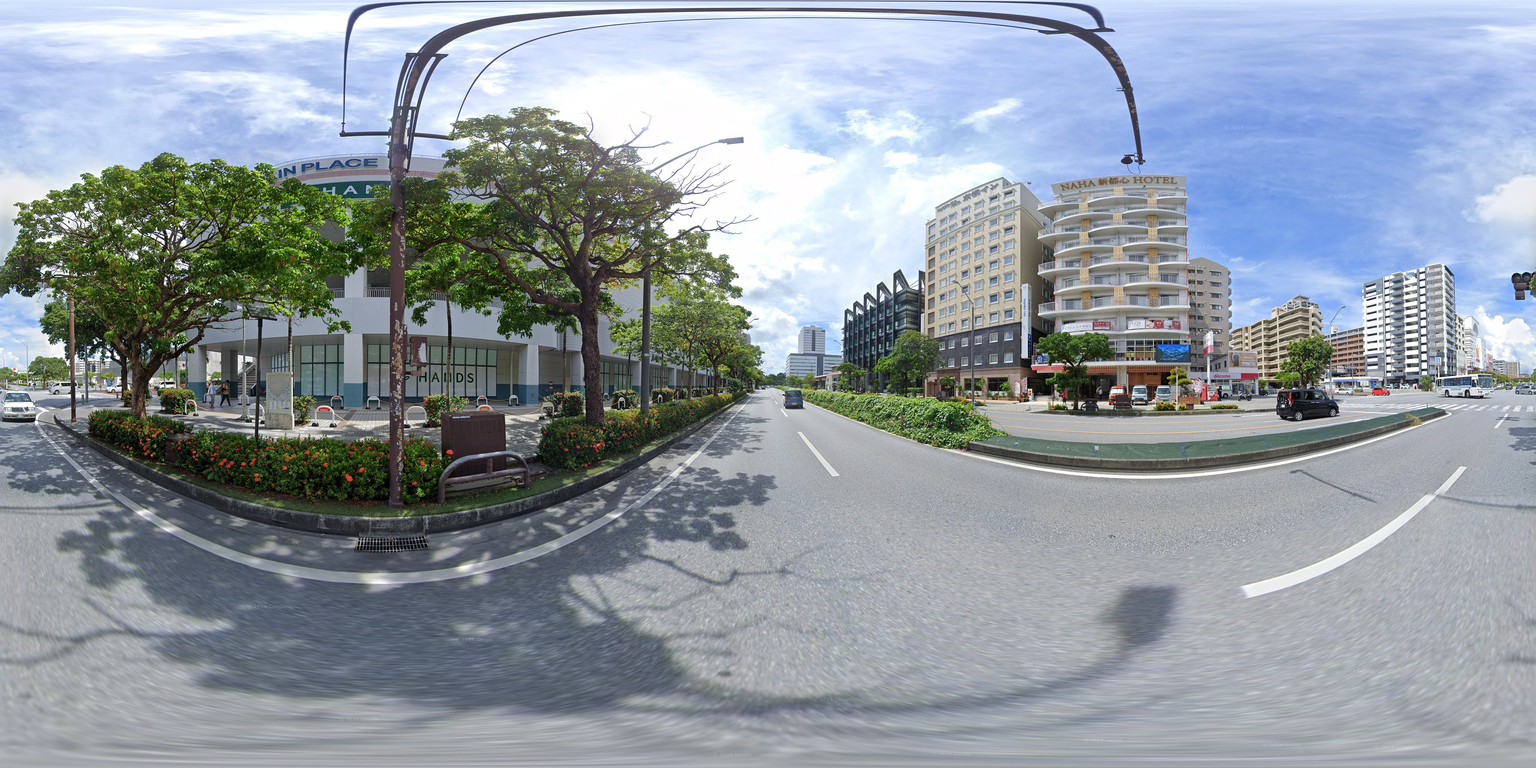
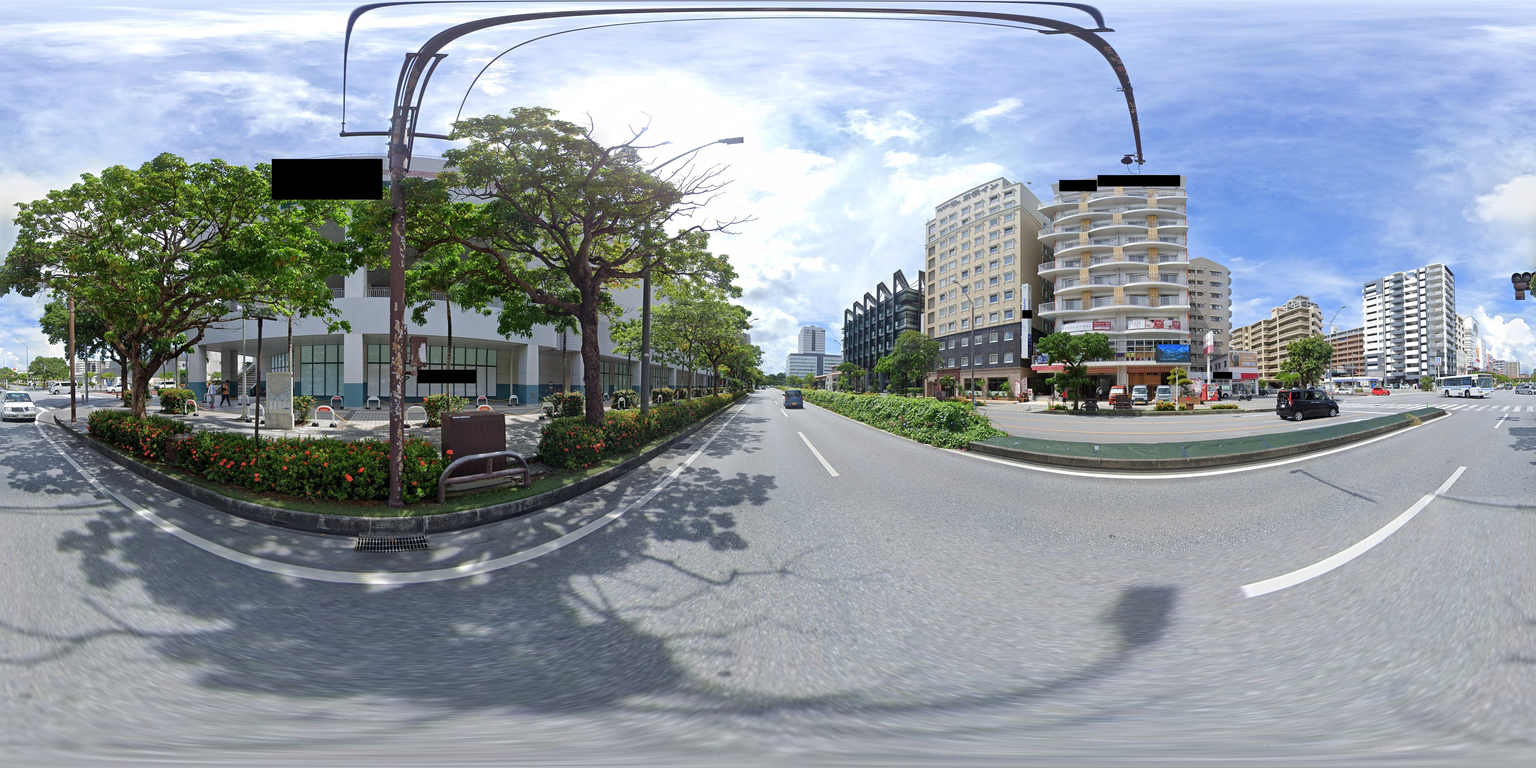
126 GEochallenge

diff --git a/update_panorama.py b/update_panorama.py
@@ -85,7 +85,10 @@ def get_pano_id(lat: float, lng: float) -> str:
 # ── Tile fetching & stitching ─────────────────────────────────────────────────
 
 def tile_url(pano_id: str, zoom: int, x: int, y: int) -> str:
-    return f"https://cbk0.google.com/cbk?output=tile&panoid={pano_id}&zoom={zoom}&x={x}&y={y}"
+    return (
+        f"https://streetviewpixels-pa.googleapis.com/v1/tile"
+        f"?cb_client=maps_sv.tactile&panoid={pano_id}&x={x}&y={y}&zoom={zoom}"
+    )
 
 
 def fetch_panorama(pano_id: str) -> Image.Image:
@@ -94,6 +97,12 @@ def fetch_panorama(pano_id: str) -> Image.Image:
     total = cols * rows
 
     session = requests.Session()
+    session.headers.update({
+        "User-Agent": "Mozilla/5.0 (Macintosh; Intel Mac OS X 10_15_7) AppleWebKit/537.36 (KHTML, like Gecko) Chrome/124.0.0.0 Safari/537.36",
+        "Referer": "https://www.google.com/",
+        "Accept": "image/avif,image/webp,image/apng,image/*,*/*;q=0.8",
+        "Accept-Language": "en-US,en;q=0.9",
+    })
 
     # Fetch first tile to determine tile dimensions
     resp = session.get(tile_url(pano_id, TILE_ZOOM, 0, 0), timeout=15)
